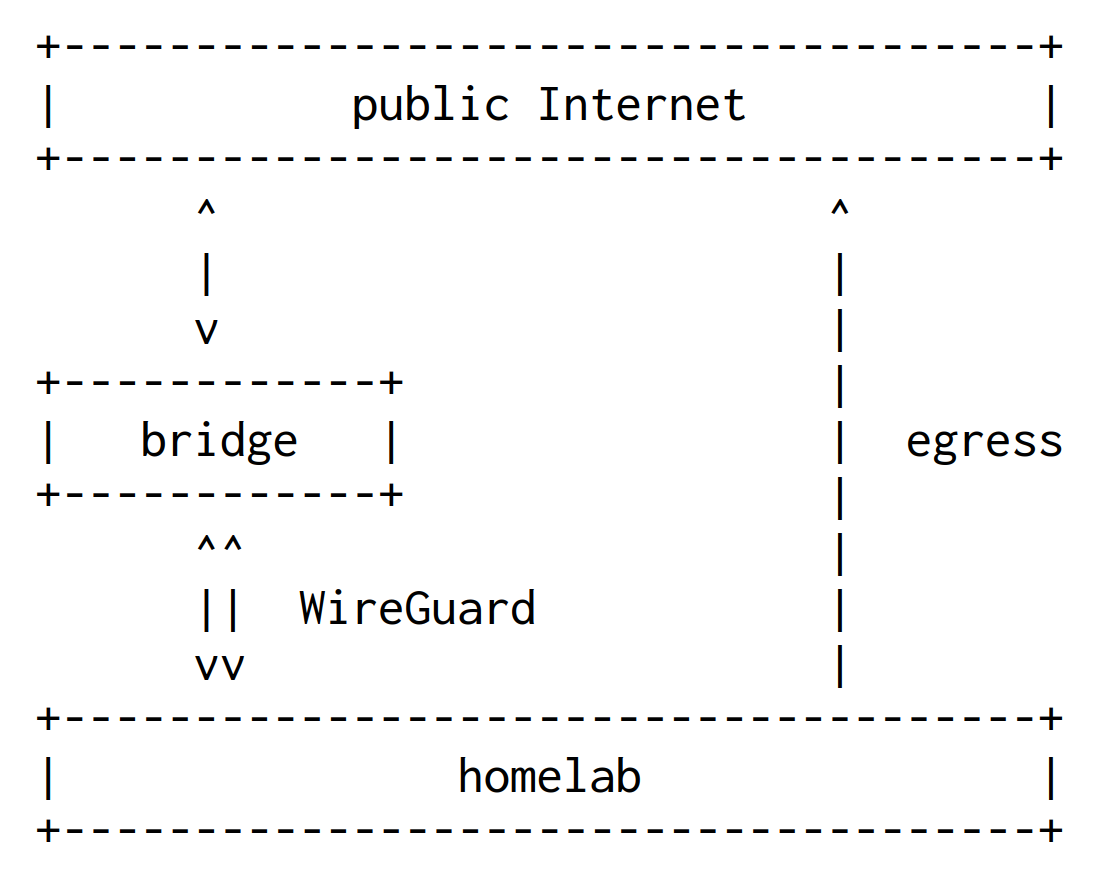
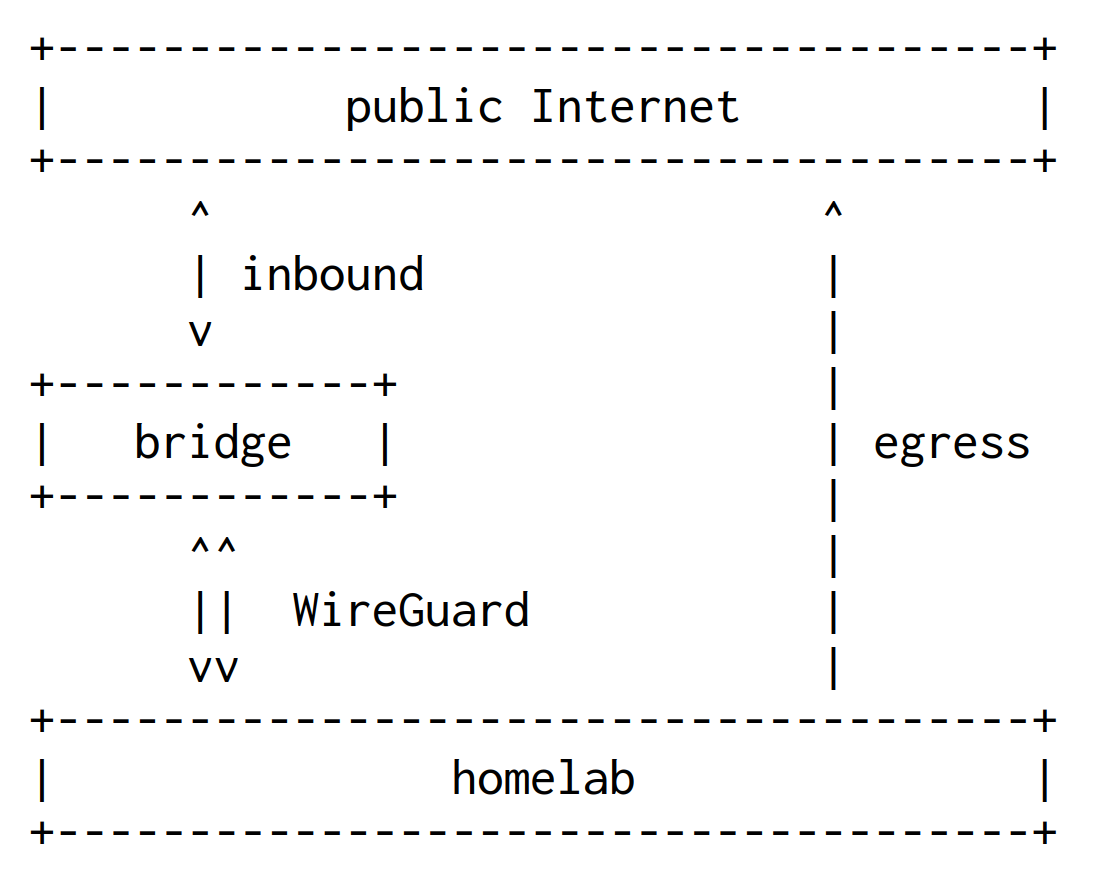
Improvements for Self-Hosting Behind CGNAT post

diff --git a/assets/css/main.css b/assets/css/main.css
@@ -161,7 +161,7 @@ header .subtitle {
     font-weight: 400;
 }
 
-.figure-number {
+.figure-number, .src-block-number {
     display: none;
 }
 
@@ -266,7 +266,7 @@ sup {
     line-height: 0;
 }
 
-.side, figcaption {
+.side, figcaption, .src-block-caption {
     float: right;
     clear: right;
     padding-top: 0.2rem;
@@ -275,6 +275,10 @@ sup {
     width: 21rem;
     position: relative;
 }
+
+.src-block-caption {
+    padding-top: 0;
+ }
 
 .fullwidth {
     margin-right: -24rem;
@@ -303,13 +307,23 @@ sup {
     padding-top: 0;
 }
 
-.side, figcaption p {
+.side, figcaption p, .src-block-caption {
     font-size: 1.1rem;
     line-height: 1.54rem;
 }
 
-.side code, figcaption p code {
+.side code, figcaption p code, .src-block-caption code {
     font-size: 1.06rem!important;
+}
+
+.highlight:has(+ .src-block-caption) {
+    display: inline-block;
+    vertical-align: top;
+    width: 100%;
+}
+
+.highlight:has(+ .src-block-caption) .chroma {
+    margin-top: 0;
 }
 
 .side img {
@@ -426,13 +440,22 @@ h2:focus-within .anchor {
         margin: 0 var(--gutter);
     }
 
-    .side, figcaption {
+    .side, figcaption, .src-block-caption {
         float: inline-end;
         margin: 0.4rem 0;
         width: calc(100% - var(--gutter) - 1px);
         padding: 0.4rem 0.5rem;
         border: 1px solid var(--border);
         border-left: 3px solid var(--border);
+    }
+
+    .src-block-caption {
+        float: none;
+        margin-bottom: 1.8rem;
+    }
+
+    .highlight:has(+ .src-block-caption) .chroma {
+        margin-bottom: 0.4rem;
     }
 
     p:has(.side:not(.meta)) {
@@ -533,7 +556,7 @@ h2:focus-within .anchor {
         margin-right: 18rem;
     }
 
-    .side, figcaption {
+    .side, figcaption, .src-block-caption {
         margin-right: -16.5rem;
         width: 15rem;
     }

diff --git a/content/posts/self-hosting-behind-cgnat.md b/content/posts/self-hosting-behind-cgnat.md
@@ -15,9 +15,10 @@ self-host at home, and be truly _libre_.
 In the past, self-hosting was easier.  You just had to open a port on
 your router and forward it to any machine at home.[^fn:1]  Nowadays, the shortage of IPv4 addresses means routers
 share the same IP across your neighborhood.  Requests are routed using
-carrier-grade NAT (CGNAT), a second layer NAT inside the carrier's
+carrier-grade NAT (CGNAT), a second-layer NAT inside the carrier's
 network, where your router's address is private and translated by the
-carrier on the way out.
+carrier on the way out.  The public address is the carrier's, so port
+forwarding no longer works.
 
 
 ## Topology {#topology}
@@ -31,18 +32,22 @@ bridge in a French data center.
   |           public Internet           |
   +-------------------------------------+
         ^                       ^
-        |                       |
+        | inbound               |
         v                       |
   +------------+                |
-  |   bridge   |                |  egress
+  |   bridge   |                | egress
   +------------+                |
         ^^                      |
-        ||  WireGuard           |
+        || WireGuard            |
         vv                      |
   +-------------------------------------+
   |               homelab               |
   +-------------------------------------+
 ```
+<div class="src-block-caption">
+  <span class="src-block-number">Code Snippet 1:</span>
+  <b>Topology diagram.</b>  The homelab is exposed to the Internet through a WireGuard tunnel to a VPS bridge.
+</div>
 
 A bidirectional WireGuard tunnel[^fn:2] forwards all
 packets in all ports from the bridge to the homelab box, and vice versa.
